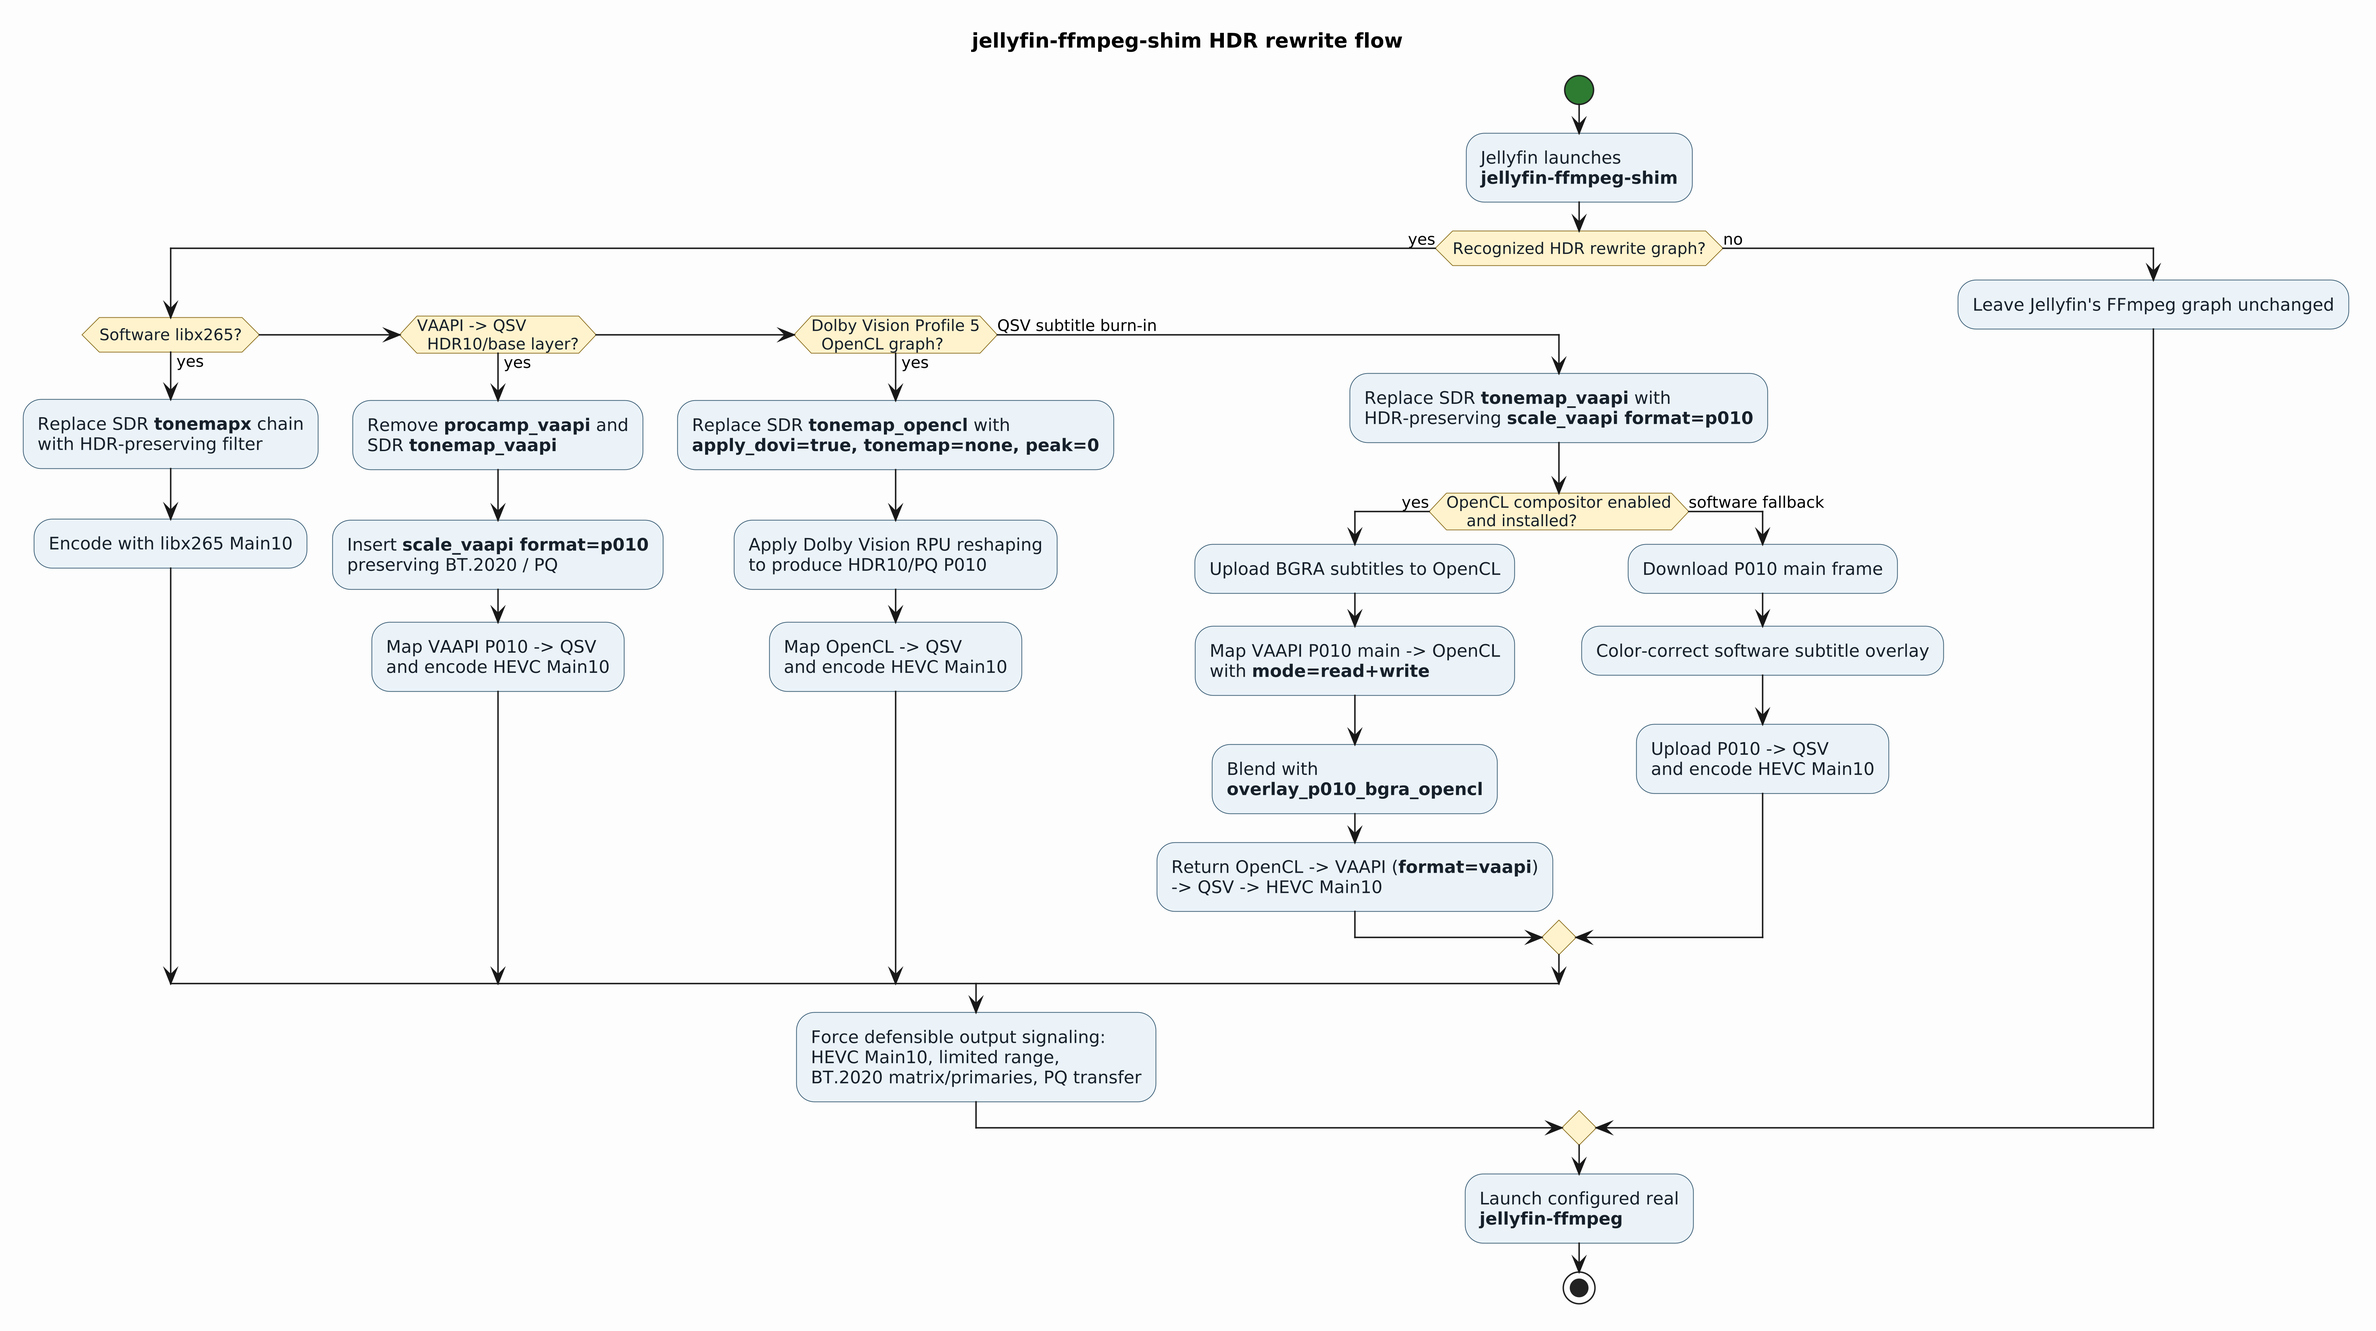
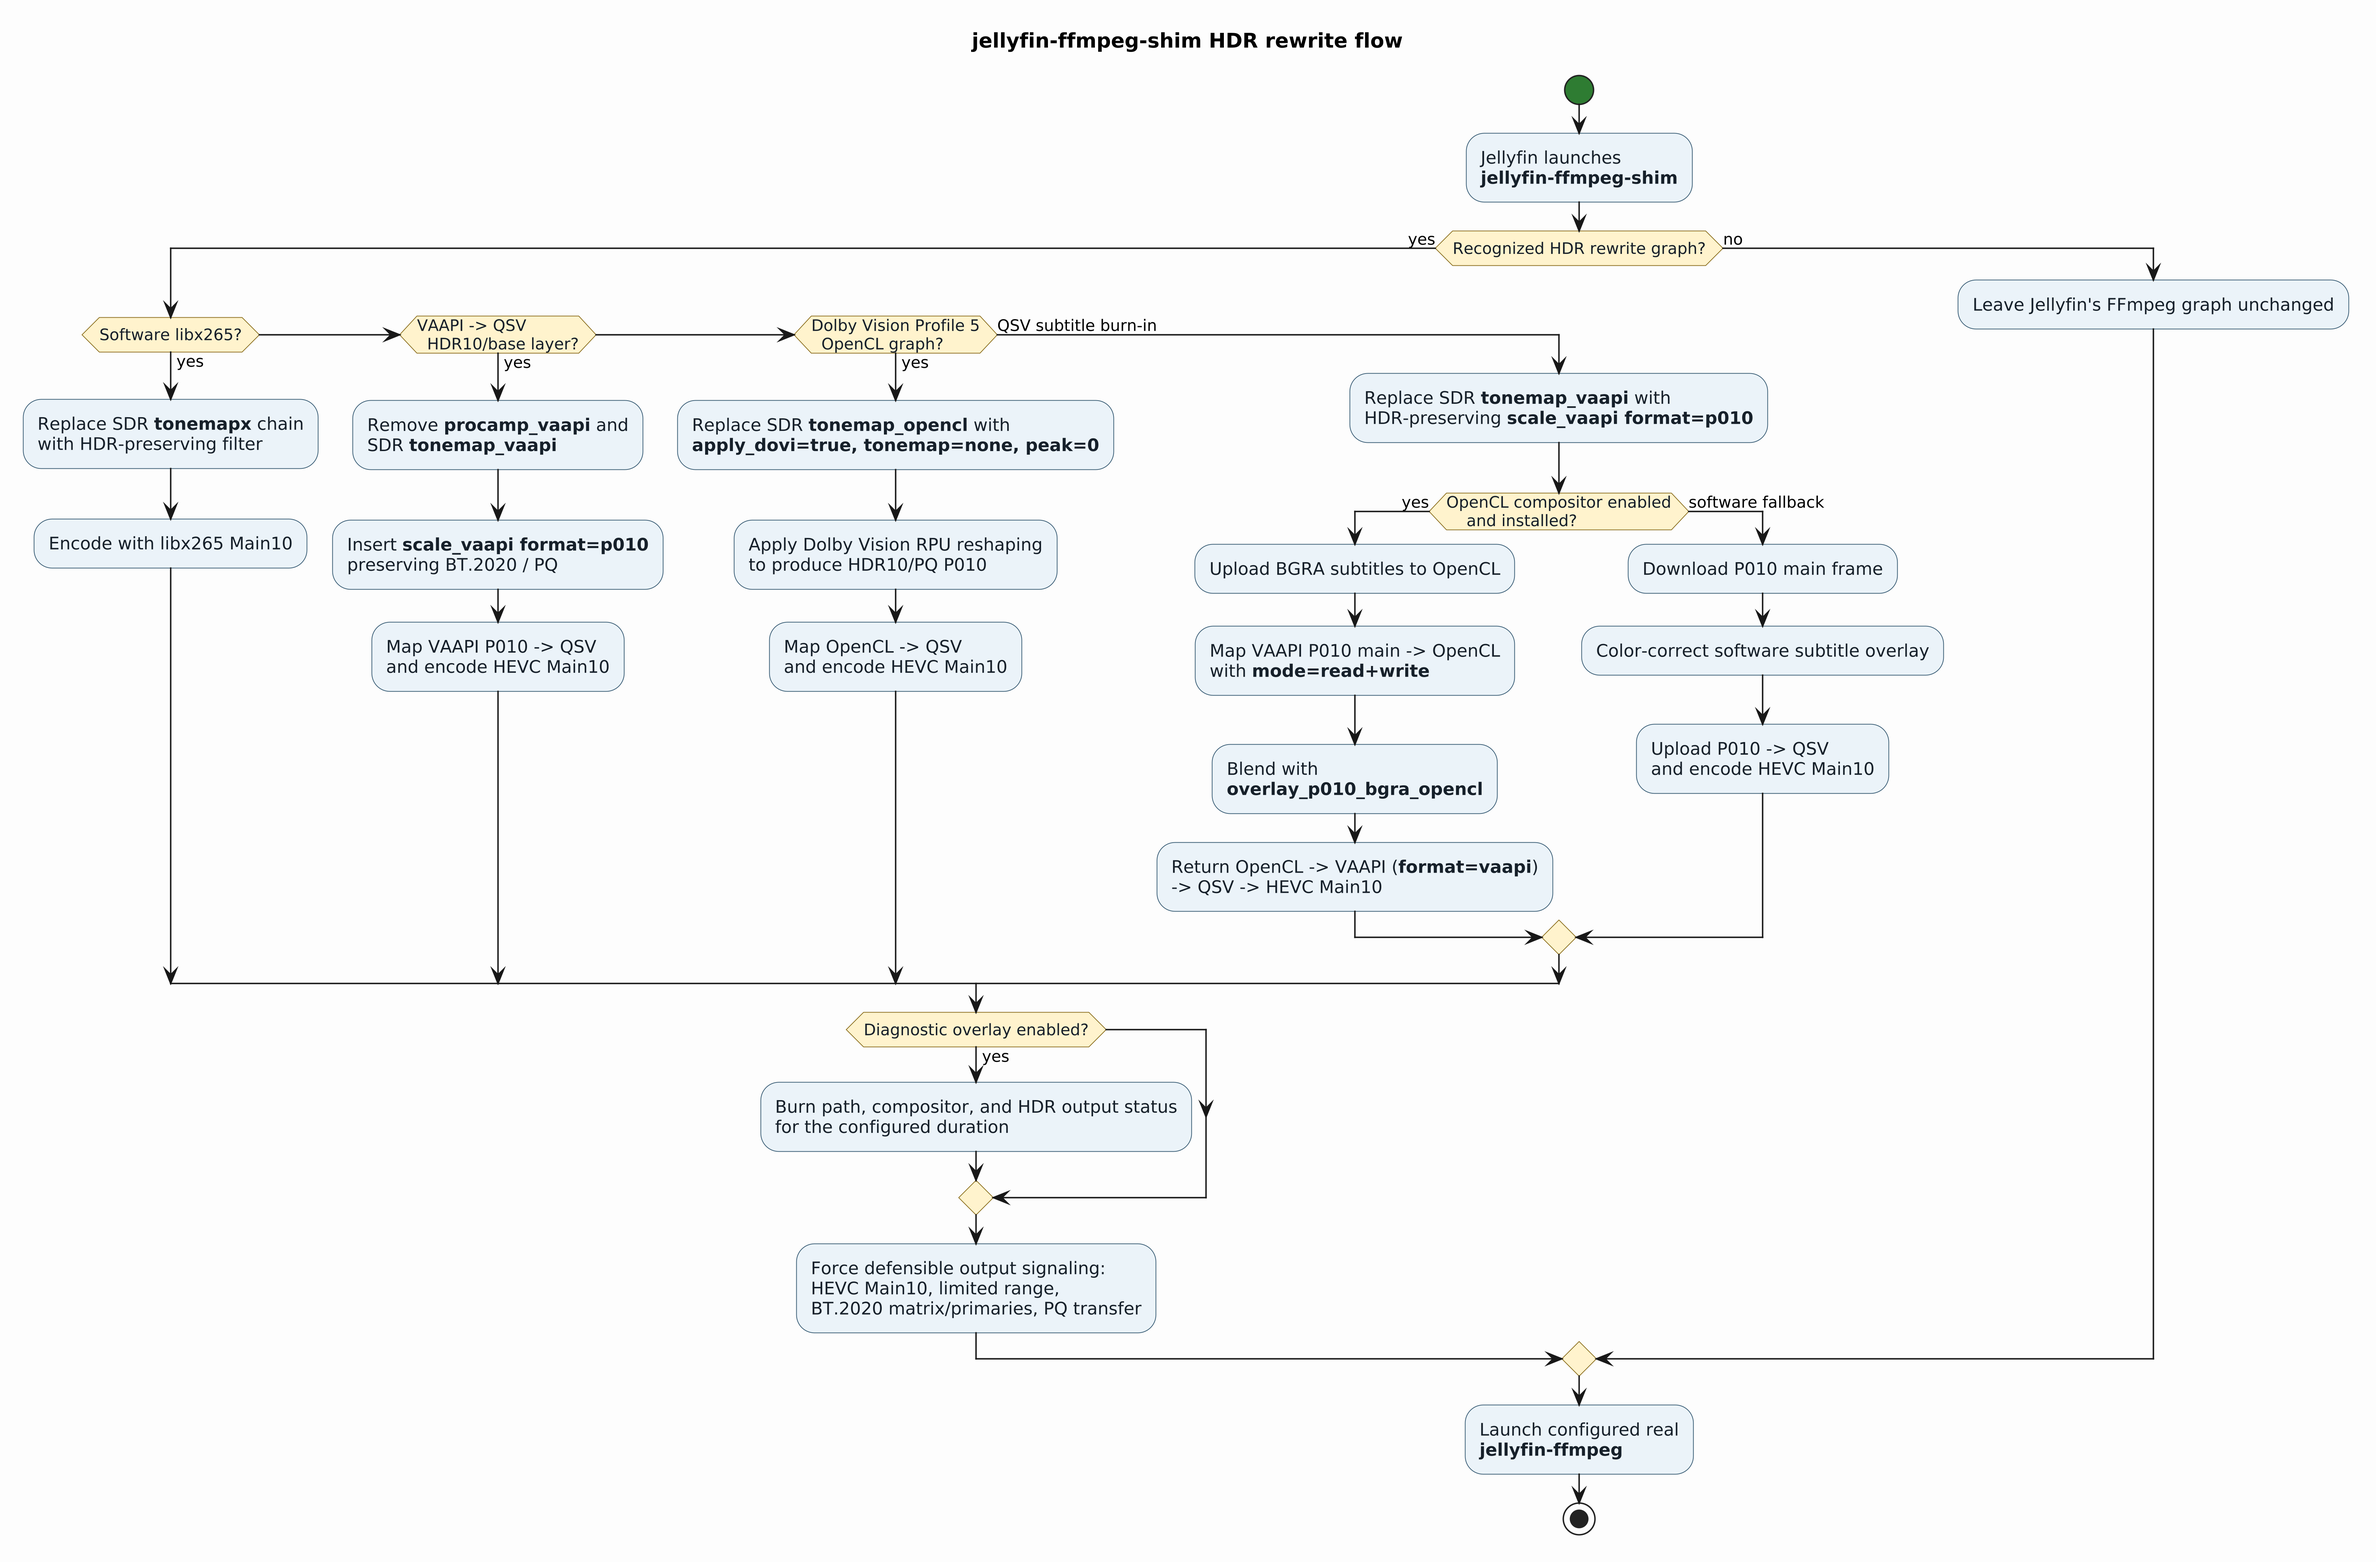
Extend diagnostic overlay to all HDR rewrites

diff --git a/tests/test_hardware_backends.py b/tests/test_hardware_backends.py
@@ -86,7 +86,7 @@ class HardwareBackendTests(unittest.TestCase):
         self.assertEqual(state["kill_switch"], 0)
         self.assertFalse(state["opencl_subtitle_compositor"])
         self.assertFalse(state["diagnostic_overlay"])
-        self.assertEqual(state["diagnostic_overlay_duration_seconds"], 5.0)
+        self.assertEqual(state["diagnostic_overlay_duration_seconds"], 15.0)
 
     def test_existing_config_defaults_diagnostic_overlay_to_disabled(self):
         with open("shim.json.example", encoding="utf-8") as source:
@@ -111,7 +111,7 @@ class HardwareBackendTests(unittest.TestCase):
         state = json.loads(completed.stdout)
         self.assertIsNone(state["config_load_error"])
         self.assertFalse(state["diagnostic_overlay"])
-        self.assertEqual(state["diagnostic_overlay_duration_seconds"], 5.0)
+        self.assertEqual(state["diagnostic_overlay_duration_seconds"], 15.0)
 
     def test_unimplemented_backend_fails_closed_without_mutation(self):
         argv = [
@@ -254,11 +254,11 @@ class HardwareBackendTests(unittest.TestCase):
             graph,
             use_opencl_compositor=True,
             diagnostic_overlay=True,
-            diagnostic_duration_seconds=5.0,
+            diagnostic_duration_seconds=15.0,
         )
         self.assertNotIn("BAIL:", message)
-        self.assertIn("5s diagnostic burn-in", message)
-        self.assertIn("color=c=black@0.65:s=3840x144:r=30:d=5", rewritten)
+        self.assertIn("15s diagnostic burn-in", message)
+        self.assertIn("color=c=black@0.65:s=3840x144:r=30:d=15", rewritten)
         self.assertIn(
             "SUCCESS\\: HDR_TO_HDR_REWRITE_APPLIED "
             "(VAAPI/QSV SUBTITLE OVERLAY)",
@@ -268,6 +268,7 @@ class HardwareBackendTests(unittest.TestCase):
         self.assertIn("OUTPUT\\: HEVC Main10 / BT.2020 / PQ", rewritten)
         self.assertEqual(rewritten.count("overlay_p010_bgra_opencl="), 2)
         self.assertIn("[subtitled_ocl][diagnostic_ocl]", rewritten)
+        self.assertIn("x=0:y=216:subtitle_peak=203", rewritten)
         self.assertEqual(rewritten.count("hwmap=derive_device=vaapi"), 1)
         self.assertNotIn("hwdownload", rewritten)
 

diff --git a/.agentic/handoff.md b/.agentic/handoff.md
@@ -1093,17 +1093,27 @@ separate backend.  Software encoders remain the universal fallback.
 
 ### Optional in-video diagnostic overlay
 
-`shim.enable_diagnostic_overlay` is disabled by default.  On a recognized
-OpenCL subtitle rewrite, enabling it adds a temporary status panel for
-`tuning.diagnostic_overlay_duration_seconds` (five seconds in the example).
+`shim.enable_diagnostic_overlay` is disabled by default.  On any recognized
+HDR rewrite, enabling it adds a temporary status panel for
+`tuning.diagnostic_overlay_duration_seconds` (15 seconds in the example).
 The configured jellyfin-ffmpeg must advertise `drawtext`, `color`, and
-`overlay_p010_bgra_opencl`.
+`overlay_p010_bgra_opencl` for accelerated hardware panels.  The software
+libx265 path requires only `drawtext`.
 
-The panel is a shallow BGRA `color` source rendered with `drawtext`, uploaded
-to OpenCL, and blended by a second `overlay_p010_bgra_opencl` invocation.  The
-first invocation burns the actual subtitles and leaves its output in OpenCL;
-the second adds the diagnostic panel before the existing OpenCL-to-VAAPI-to-QSV
-return mapping.  The P010 main frame is never downloaded.  The panel reports:
+The hardware panel is a shallow BGRA `color` source rendered with `drawtext`,
+uploaded to OpenCL, and blended with `overlay_p010_bgra_opencl`.  Ordinary
+VAAPI/QSV and Profile 5 simple filter graphs are promoted to `-filter_complex`:
+the selected video map feeds the rewritten P010 main branch, the panel is a
+second branch, and `[diagnostic_out]` replaces the original video map.  The
+main branch remains in OpenCL until composition, then maps through explicit
+VAAPI back to QSV.  The P010 frame is never downloaded.
+
+For subtitle burn-in, the first compositor invocation burns the subtitles and
+leaves its output in OpenCL; a second invocation adds the diagnostic panel
+before the existing OpenCL-to-VAAPI-to-QSV return mapping.  Software libx265
+uses `drawtext` directly because no hardware-frame transition is involved.
+The panel reports a path-specific success line plus compositor and output
+details, for example:
 
 ```text
 SUCCESS: HDR_TO_HDR_REWRITE_APPLIED (VAAPI/QSV SUBTITLE OVERLAY)
@@ -1111,9 +1121,13 @@ COMPOSITOR: OpenCL P010/BGRA
 OUTPUT: HEVC Main10 / BT.2020 / PQ
 ```
 
-The feature deliberately does not run on the software compositor or on other
-HDR rewrite shapes.  If any required filter is absent, the media rewrite
-continues without the panel and records `DIAGNOSTIC_OVERLAY_UNAVAILABLE`.
+The first line changes to `HDR_TO_HDR_REWRITE_APPLIED (VAAPI/QSV)`,
+`DOVI_PROFILE5_TO_HDR10_REWRITE_APPLIED (VAAPI/OpenCL/QSV)`, or
+`HDR_TO_HDR_REWRITE_APPLIED (LIBX265)` for the other supported paths.
+
+Unsupported rewrite shapes still pass through unchanged.  If any required
+diagnostic filter is absent, the HDR media rewrite continues without the panel
+and records `DIAGNOSTIC_OVERLAY_UNAVAILABLE`.
 
 ### Acceptance requirements for every new backend
 

diff --git a/README.md b/README.md
@@ -223,9 +223,9 @@ Important configuration controls:
 - `enable_opencl_subtitle_compositor`: uses the custom GPU subtitle compositor
   when available.  Set it to `false` to force the slower software subtitle
   fallback without disabling HDR subtitle burn-in entirely.
-- `enable_diagnostic_overlay`: burns a five-second status panel into supported
-  OpenCL subtitle rewrites.  It is disabled by default and is intended for
-  confirming the active playback path without opening the shim log.
+- `enable_diagnostic_overlay`: burns a 15-second status panel into supported
+  HDR rewrites.  It is disabled by default and is intended for confirming the
+  active playback path without opening the shim log.
 - `log_full_argv`: logs full original and rewritten commands; these can contain
   media paths.
 - `minrate_ratio`: fraction of `-maxrate` used for `-minrate`.
@@ -399,12 +399,21 @@ deriving the QSV view; omitting it caused the reverse map to fail with
 the output dimensions as BGRA and uploaded directly to the OpenCL device.
 
 When the diagnostic overlay is enabled, `color` and `drawtext` create a shallow
-BGRA status panel for the configured duration.  That small panel is uploaded to
-OpenCL and blended with a second `overlay_p010_bgra_opencl` pass before the
+BGRA status panel for the configured duration.  Hardware rewrites upload only
+that panel to OpenCL and blend it with `overlay_p010_bgra_opencl` before the
 frame returns to VAAPI/QSV.  Text rendering occurs in software, but the P010
 video is never downloaded; only the diagnostic panel crosses from system
-memory to the GPU.  The panel reports the successful subtitle rewrite,
-compositor path, and HDR output signaling.
+memory to the GPU.  The panel reports the successful rewrite, active path, and
+HDR output signaling.
+
+For ordinary HDR10 and Dolby Vision Profile 5 rewrites, the shim promotes
+Jellyfin's simple video filter into a two-branch complex graph.  The rewritten
+P010 video remains in OpenCL on one branch while the small diagnostic panel is
+rendered and uploaded on the other.  The compositor output maps back through
+VAAPI to QSV Main10.  Subtitle burn-in uses the same idea but adds the panel as
+a second compositor pass after the subtitle pass.  Software libx265 rewrites
+use `drawtext` directly because those video frames already reside in system
+memory.
 
 The shim uses this path only when it recognizes the exact three-branch QSV
 subtitle graph and the configured jellyfin-ffmpeg binary advertises the custom
